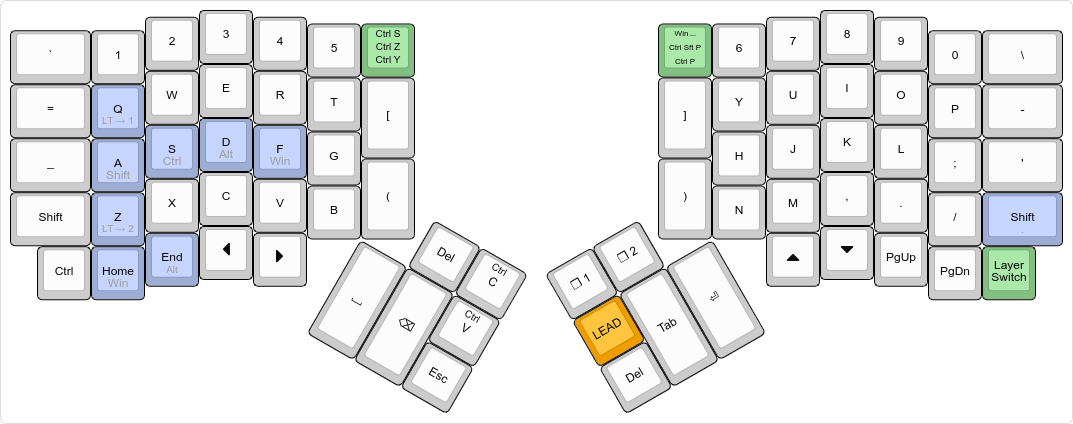
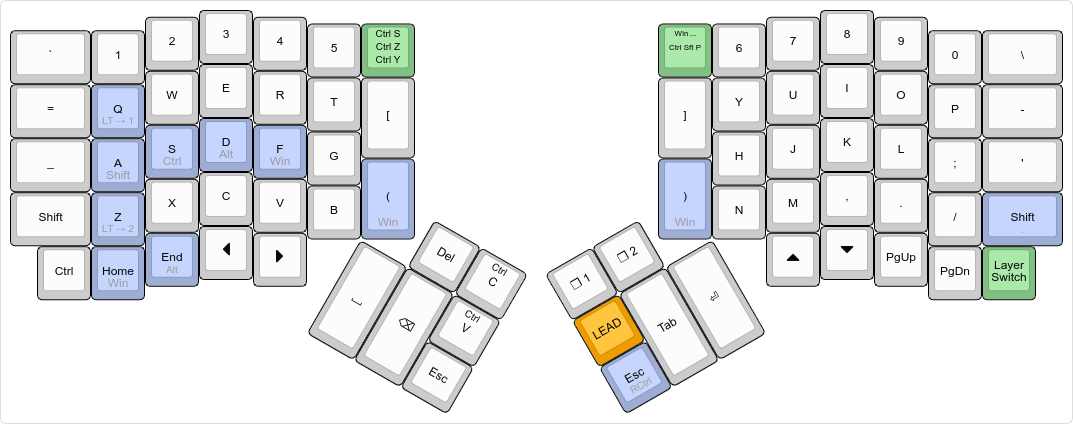
Added RCtrl toggle for virtualbox and mod-tap win for parens.

diff --git a/keymap.c b/keymap.c
@@ -47,7 +47,7 @@ const uint16_t PROGMEM keymaps[][MATRIX_ROWS][MATRIX_COLS] = {
         KC_GRAVE, KC_1, KC_2, KC_3, KC_4, KC_5, TD(TD_SAVE_UNDO_REDO),
         KC_EQUAL, LT(1, KC_Q), KC_W, KC_E, KC_R, KC_T, KC_LBRACKET,
         KC_UNDS, SFT_T(KC_A), CTL_T(KC_S), ALT_T(KC_D), GUI_T(KC_F), KC_G,
-        KC_LSFT, LT(2, KC_Z), KC_X, KC_C, KC_V, KC_B, KC_LPRN,
+        KC_LSFT, LT(2, KC_Z), KC_X, KC_C, KC_V, KC_B, GUI_T(KC_LPRN),
         KC_LCTL, GUI_T(KC_HOME), ALT_T(KC_END), KC_LEFT, KC_RIGHT,
 
         KC_DELETE, LCTL(KC_C),
@@ -58,12 +58,12 @@ const uint16_t PROGMEM keymaps[][MATRIX_ROWS][MATRIX_COLS] = {
         TD(TD_APP_LAUNCHER_CMD_PALETTE), KC_6, KC_7, KC_8, KC_9, KC_0, KC_BSLASH,
         KC_RBRACKET, KC_Y, KC_U, KC_I, KC_O, KC_P, KC_MINUS,
         KC_H, KC_J, KC_K, KC_L, KC_SCOLON, KC_QUOTE,
-        KC_RPRN, KC_N, KC_M, KC_COMMA, KC_DOT, KC_SLASH, SFT_T(KC_DOT),
+        GUI_T(KC_RPRN), KC_N, KC_M, KC_COMMA, KC_DOT, KC_SLASH, SFT_T(KC_DOT),
         KC_UP, KC_DOWN, KC_PGUP, KC_PGDOWN, TD(TD_LAYER_SWITCH),
 
         TG(1), TG(2),
         KC_LEAD,
-        KC_ESC, KC_TAB, KC_ENTER),
+        RCTL_T(KC_ESC), KC_TAB, KC_ENTER),
 
     [NUMPAD] = LAYOUT_ergodox(
         // left hand
@@ -195,13 +195,6 @@ void app_launcher_cmd_palette(qk_tap_dance_state_t* state, void* user_data)
         register_code(KC_P);
         unregister_code(KC_P);
         unregister_code(KC_LSFT);
-        unregister_code(KC_LCTL);
-    }
-    else if (state->count == 3) {
-        // VS Quick Open
-        register_code(KC_LCTL);
-        register_code(KC_P);
-        unregister_code(KC_P);
         unregister_code(KC_LCTL);
     }
 }
